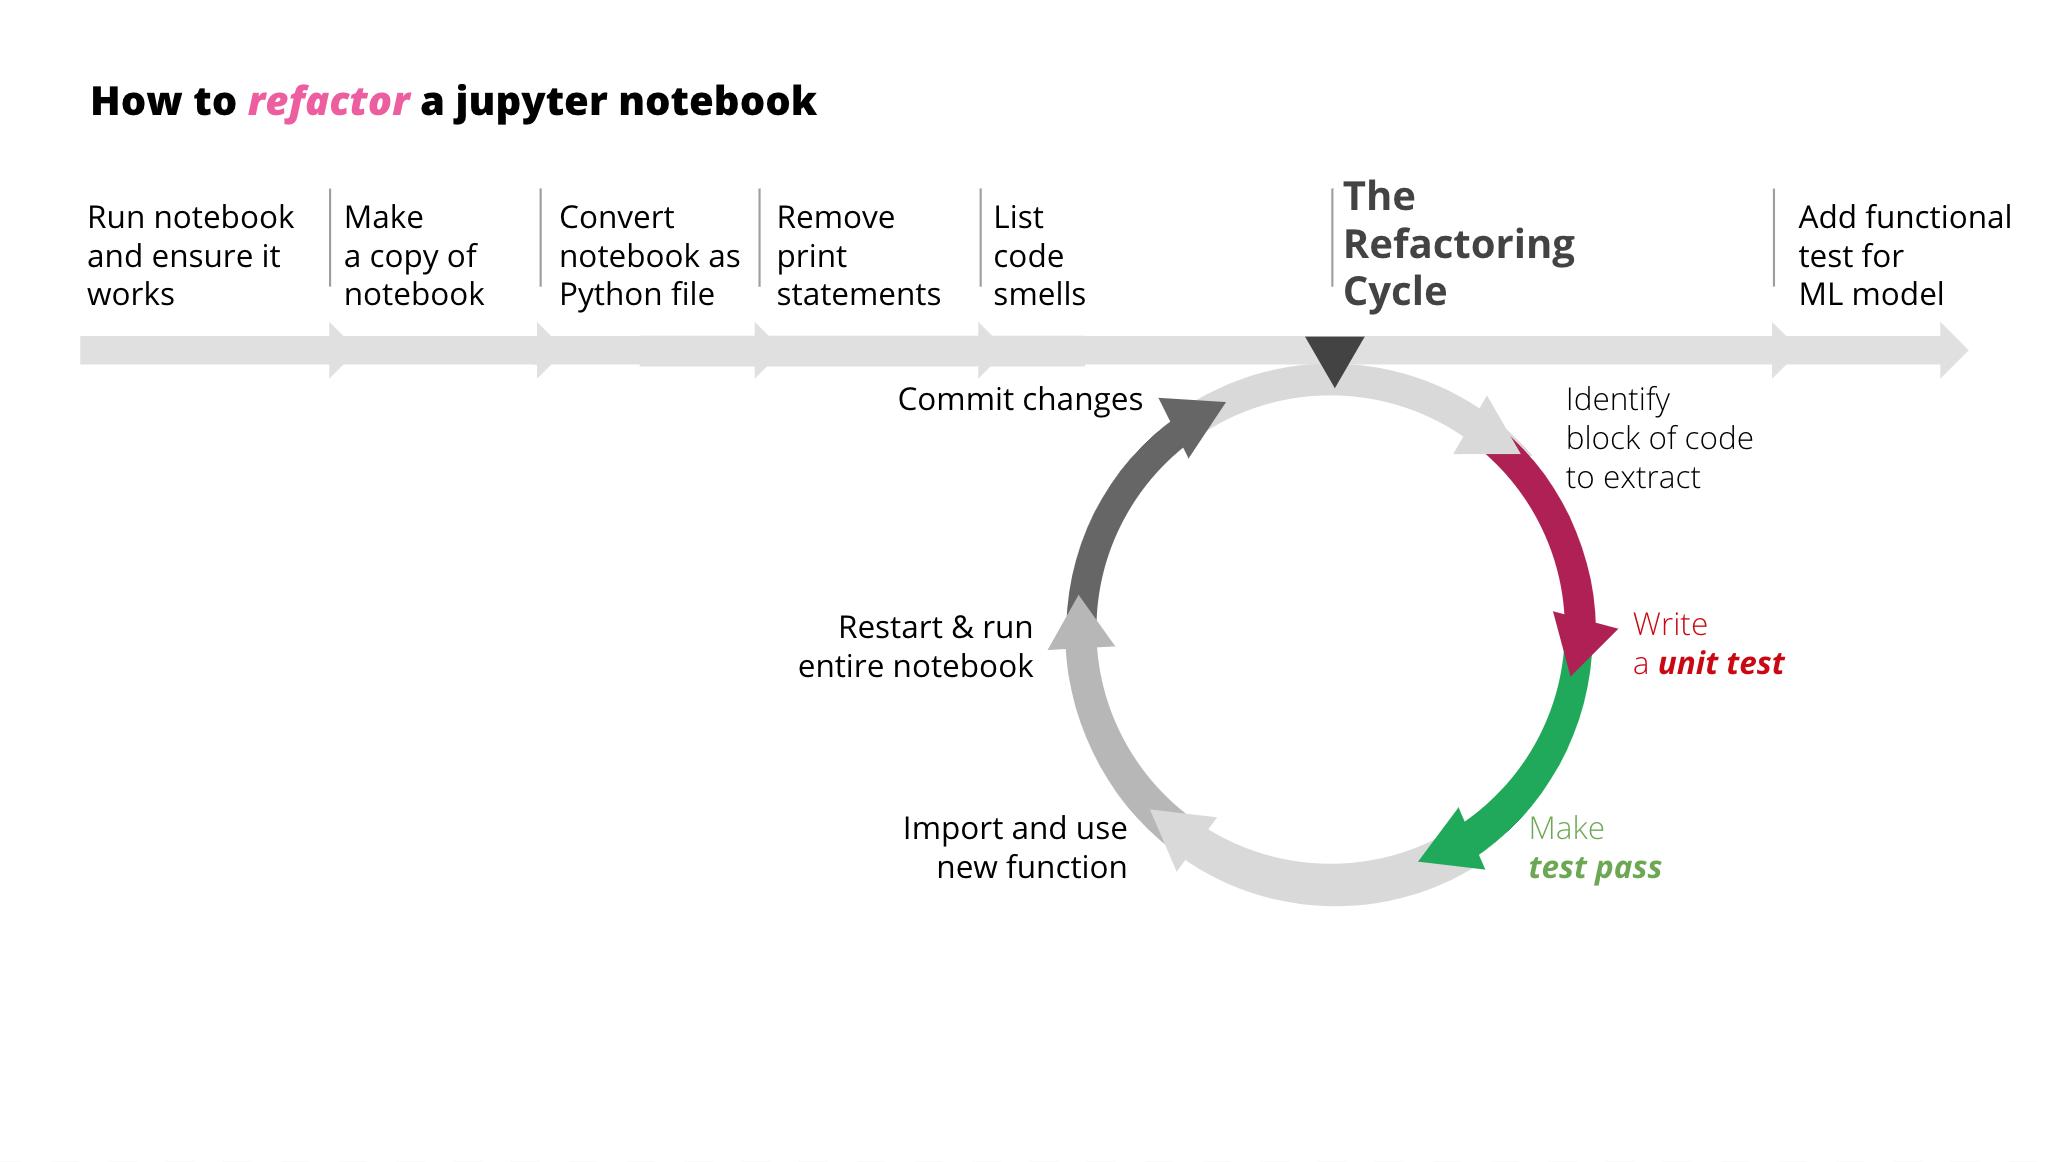
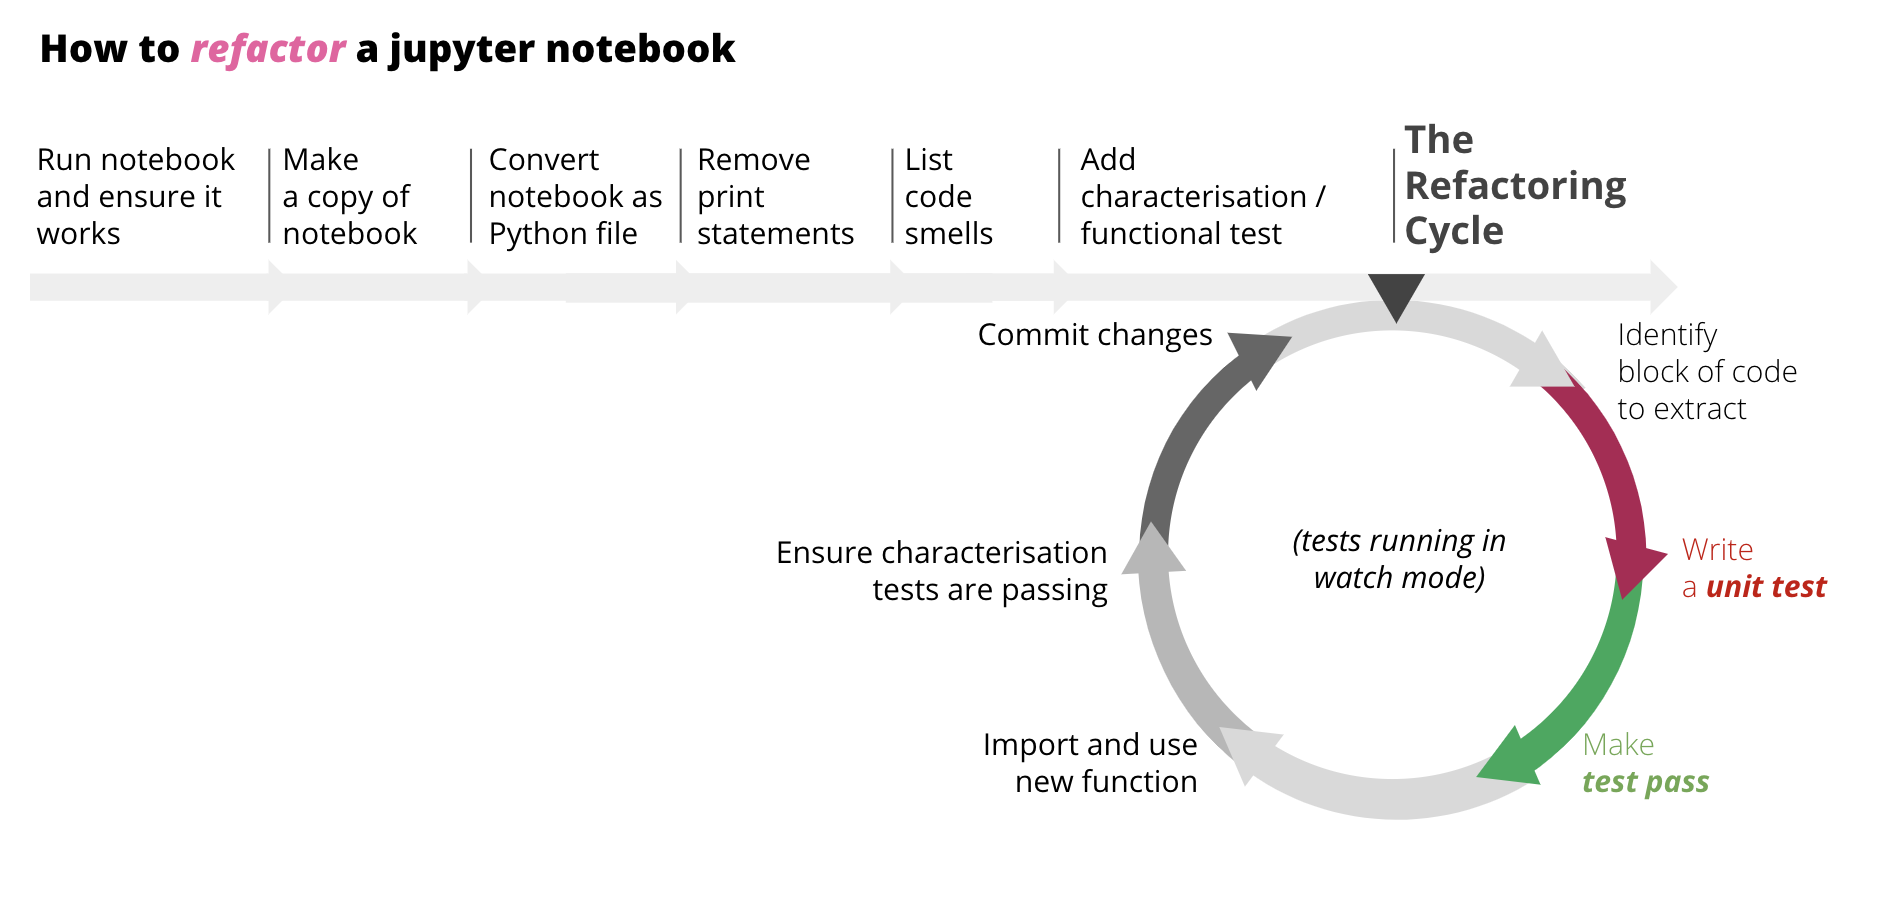
Update refactoring cycle

Changed region(s): [[0.0, 0.1244, 0.9636, 0.9333], [0.0, 0.0311, 0.4041, 0.1244], [0.5595, 0.1556, 0.5906, 0.1867]]

diff --git a/docs/refactoring-process.md b/docs/refactoring-process.md
@@ -15,31 +15,36 @@ Nonetheless, since this is the predicament which we find ourselves in, we need t
 **Before we start refactoring:**
 
 - Ensure that notebooks when run from start to end
-  - Even better if you can add an "integration" or "functional" test of the code (see last step - "Add a functional test for the ML model")
 - Make a copy of the original notebook (for comparing the end result later)
   - This frees us up from any emotional attachment and allow us to ruthlessly clean up the code.
+- Convert Jupyter notebook into a plain Python file
+  - This will allow you to have all the benefits of using an IDE (e.g. autocomplete, intellisense, formatting, auto-renaming, linting, keyboard shortcuts, etc. For more details, check out this [tutorial](https://www.youtube.com/watch?v=KUvqDINDzFE&list=PLO9pkowc_99ZhP2yuPU8WCfFNYEx2IkwR&index=6))
+  - Command: `jupyter nbconvert --to script mynotebook.ipynb`
 - Remove print statements (e.g. `print(...)`, `df.head()`, `df.describe()`, `df.plot()`)
   - This removes noise and visual clutter, and makes the next step exponentially easier
 - Read notebook and list [code smells](../README.md)
+- Define refactoring boundary and add a characterisation test
+  - This is arguably **the most important step**. Having a characterisation test will give you fast feedback because it can be run continuously as you refactor. It will tell you within seconds (or even milliseconds) if you've accidentally introduced an error or a bug.
+  - Without the characterisation test, you would have to manually restart and rerun the entire Jupyter notebook - which is cumbersome and so 2019.
 
 **The refactoring cycle:**
 The instructions for how to run each step can be found in the [refactoring exercise](./refactoring-exercise.md)
 
-1. Identify a block of code that can be extracted into a pure function
-1. Pseudo-TDD (test-driven development)
+- Identify a block of code that can be extracted into a pure function
+- Write automated tests
 
    - Run the unit tests in [watch mode](./refactoring-exercise.md#getting-started)
    - Write a [unit test](../src/tests/test_preprocessing.py) for the code block
    - Create a [Python module](../src/preprocessing.py) and define a function. Move existing implementation from notebook into that function
    - Make the test pass
 
-1. In the notebook, replace original code block with the newly defined function
-1. Restart and run entire notebook (Unfortunately, until we have sufficient unit tests, we will still need manual “integration” tests for the time being.)
-1. [If possible] Refactor function some more
-1. Commit your changes
-   - git add .
-   - git commit -m "your commit message"
-1. **Rinse and repeat**
+- In the notebook, replace original code block with the newly defined function
+- Ensure characterisation tests are still passing
+- [If possible] Refactor function some more
+- Commit your changes
+   - `git add .`
+   - `git commit -m "your commit message"`
+- **Rinse and repeat**
 
 ### Some tips
 
@@ -50,3 +55,5 @@ The instructions for how to run each step can be found in the [refactoring exerc
 - Don't try big bang refactorings. Refactoring isn’t an activity that’s separated from programming. We refactor as we go.
 - When to refactor
   - "**Three strikes, then you refactor.** The first time you do something, you just do it. The second time you do something similar, you wince at the duplication, but you do the duplicate thing anyway. The third time you do something similar, you refactor." (Martin Fowler)
+
+

diff --git a/docs/refactoring-video.md b/docs/refactoring-video.md
@@ -7,8 +7,9 @@ My refactoring process (use them in the order that works for you)
 - [x] Run notebook and ensure it works
 - [x] Make a copy of the notebook (to eliminate any emotional attachment)
 - [x] Remove print statements
-- [x] Convert notebook as Python file
 - [x] Read notebook and list code smells
+- [x] Convert notebook as Python file
+- [x] Determine boundary of refactoring and add characterisation test there
 
 ## Refactoring steps
 - [] Run tests in watch mode
@@ -23,3 +24,4 @@ My refactoring process (use them in the order that works for you)
     - [] Commit your changes
 - [] Add functional test for ML model
 - [] Celebrate 🤘🤘
+
